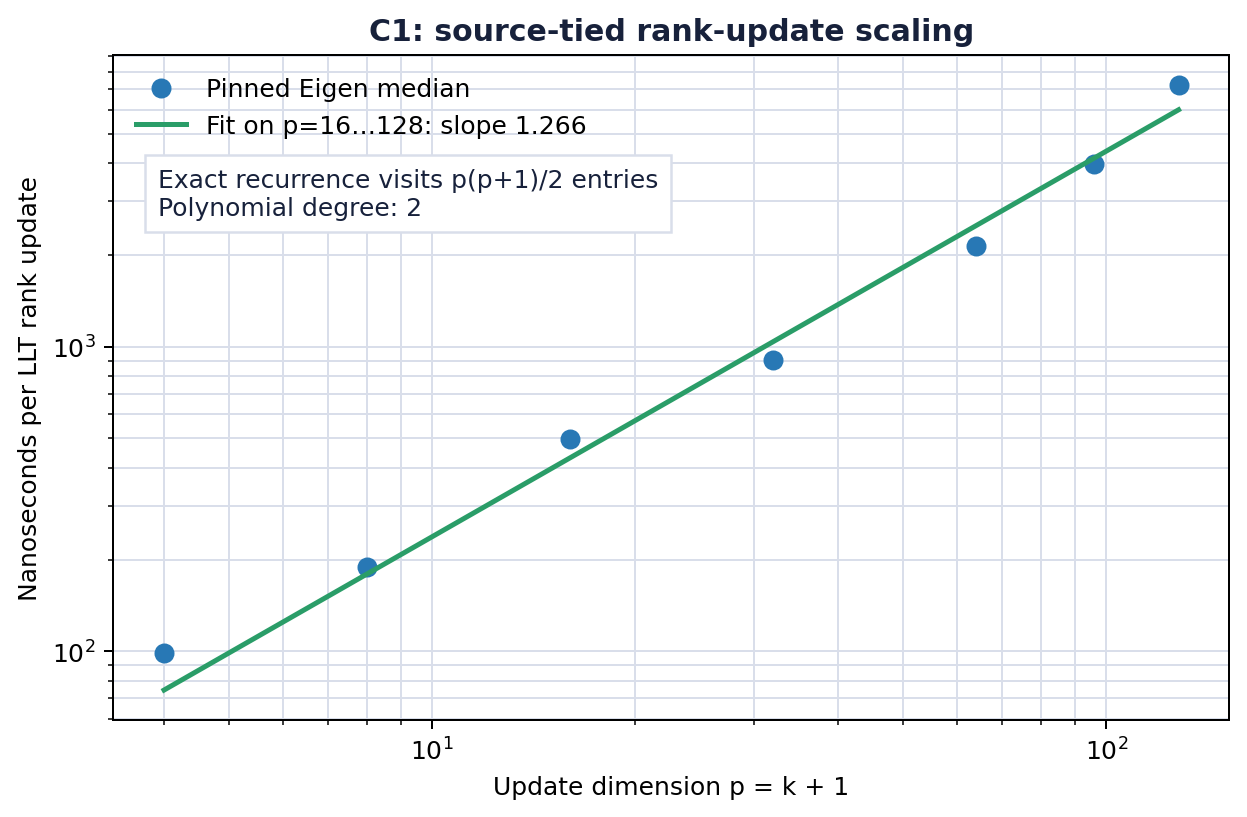
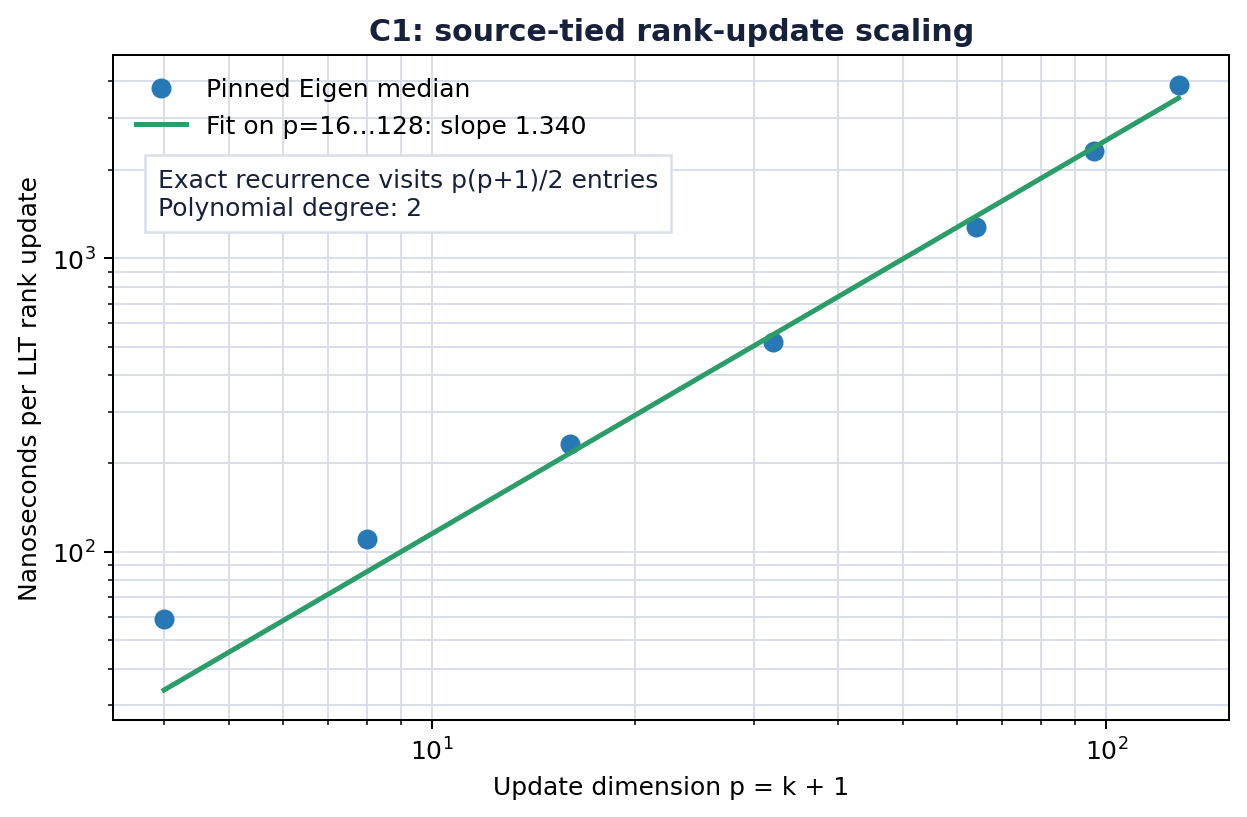
Strengthen exact C3 moment evidence

diff --git a/repro/src/verify_algorithmic_certificates.py b/repro/src/verify_algorithmic_certificates.py
@@ -10,6 +10,7 @@ import subprocess
 from collections import defaultdict
 from pathlib import Path
 from statistics import median
+from typing import Callable
 
 import numpy as np
 import sympy as sp
@@ -21,6 +22,32 @@ AUTHOR_SOURCE = ROOT / "upstream" / "src" / "clari_tree.cpp"
 EIGEN_LLT = ROOT / "repro" / "vendor" / "eigen" / "Eigen" / "src" / "Cholesky" / "LLT.h"
 BENCHMARK_SOURCE = ROOT / "repro" / "cpp" / "benchmark_rank_update.cpp"
 BENCHMARK_BINARY = ROOT / "outputs" / "benchmark_rank_update"
+
+
+def exact_independent_moment(
+    expression: sp.Expr,
+    variables: tuple[sp.Symbol, ...],
+    moments: dict[sp.Symbol, Callable[[int], sp.Expr]],
+) -> sp.Expr:
+    """Evaluate a polynomial moment from explicit independent marginals."""
+    polynomial = sp.Poly(sp.expand(expression), *variables)
+    answer = sp.Integer(0)
+    for powers, coefficient in polynomial.terms():
+        term = coefficient
+        for variable, power in zip(variables, powers, strict=True):
+            term *= moments[variable](power)
+        answer += term
+    return sp.factor(answer)
+
+
+def rademacher_moment(power: int) -> sp.Integer:
+    return sp.Integer(1 if power % 2 == 0 else 0)
+
+
+def standard_normal_moment(power: int) -> sp.Integer:
+    if power % 2:
+        return sp.Integer(0)
+    return sp.Integer(sp.factorial2(power - 1) if power else 1)
 
 
 def sha256(path: Path) -> str:
@@ -186,11 +213,125 @@ def dominance_certificate() -> dict[str, object]:
 
 
 def arbitrary_gap_certificate() -> dict[str, object]:
-    epsilon, U = sp.symbols("epsilon U", positive=True)
-    nuisance_gain = epsilon**2 / U**2
+    epsilon = sp.symbols("epsilon", positive=True)
+    U = sp.symbols("U", integer=True, positive=True)
+    g, h, z, nuisance = sp.symbols("g h z nuisance", real=True)
+    bernoulli, noise = sp.symbols("B N", real=True)
+    beta_0, beta_g, beta_h, beta_z, beta_m = sp.symbols(
+        "beta_0 beta_g beta_h beta_z beta_m", real=True
+    )
+
+    base_variables = (g, h, z, nuisance, bernoulli, noise)
+    base_moments = {
+        g: rademacher_moment,
+        h: rademacher_moment,
+        z: standard_normal_moment,
+        nuisance: rademacher_moment,
+        bernoulli: lambda power: sp.Integer(1) if power == 0 else epsilon,
+        noise: rademacher_moment,
+    }
+
+    target = g * h * z
+    linear_predictor = beta_0 + beta_g * g + beta_h * h + beta_z * z + beta_m * nuisance
+    target_cross_moments = {
+        str(regressor): str(
+            exact_independent_moment(target * regressor, base_variables, base_moments)
+        )
+        for regressor in (sp.Integer(1), g, h, z, nuisance)
+    }
+    target_energy = exact_independent_moment(target**2, base_variables, base_moments)
+    linear_leaf_residual = exact_independent_moment(
+        (target - linear_predictor) ** 2, base_variables, base_moments
+    )
+    linear_leaf_expected = 1 + sum(
+        coefficient**2
+        for coefficient in (beta_0, beta_g, beta_h, beta_z, beta_m)
+    )
+
+    child_cross_moments: dict[str, dict[str, list[str]]] = {}
+    for split_variable, remaining in ((g, (h, z, nuisance)), (h, (g, z, nuisance))):
+        per_sign: dict[str, list[str]] = {}
+        for sign in (-1, 1):
+            child_target = sp.expand(target.subs(split_variable, sign))
+            child_variables = tuple(variable for variable in base_variables if variable != split_variable)
+            child_moments = {variable: base_moments[variable] for variable in child_variables}
+            per_sign[str(sign)] = [
+                str(
+                    exact_independent_moment(
+                        child_target * regressor,
+                        child_variables,
+                        child_moments,
+                    )
+                )
+                for regressor in (sp.Integer(1), *remaining)
+            ]
+        child_cross_moments[str(split_variable)] = per_sign
+
+    # A z-threshold changes z's marginal moments but leaves g and h centered.
+    # Keeping those moments symbolic proves every target cross term remains zero
+    # for an arbitrary non-degenerate threshold event, not just a numeric cut.
+    mu_1, mu_2 = sp.symbols("mu_1 mu_2", real=True)
+    z_child_moments = dict(base_moments)
+    z_child_moments[z] = lambda power: {0: 1, 1: mu_1, 2: mu_2}[power]
+    z_child_cross_moments = {
+        str(regressor): str(
+            exact_independent_moment(target * regressor, base_variables, z_child_moments)
+        )
+        for regressor in (sp.Integer(1), g, h, z, nuisance)
+    }
+    child_probability, left_second, right_second = sp.symbols(
+        "p mu2_left mu2_right", positive=True
+    )
+    parent_second = child_probability * left_second + (1 - child_probability) * right_second
+    z_energy_law_margin = sp.simplify(
+        child_probability * left_second
+        + (1 - child_probability) * right_second
+        - parent_second
+    )
+
+    # Derive the nuisance-pair gain instead of inserting epsilon**2/U**2.
+    m_2, other_1, other_2 = sp.symbols("m_2 other_1 other_2", real=True)
+    sign = sp.symbols("s", real=True)
+    nuisance_variables = (m_2, other_1, other_2)
+    nuisance_moments = {variable: rademacher_moment for variable in nuisance_variables}
+    matched_j_moment = exact_independent_moment(
+        sign * m_2 * m_2, nuisance_variables, nuisance_moments
+    )
+    unmatched_j_moment = exact_independent_moment(
+        other_1 * other_2 * m_2, nuisance_variables, nuisance_moments
+    )
+    uniform_j_moment = sp.simplify(
+        (matched_j_moment + (U - 1) * unmatched_j_moment) / U
+    )
+    child_cross = sp.simplify(epsilon * uniform_j_moment)
+    coefficient = sp.symbols("a", real=True)
+    loss_delta = sp.expand(coefficient**2 - 2 * coefficient * child_cross)
+    optimal_coefficient = sp.solve(sp.diff(loss_delta, coefficient), coefficient)[0]
+    nuisance_gain_before_child_sign = sp.factor(
+        -loss_delta.subs(coefficient, optimal_coefficient)
+    )
+    nuisance_gain = nuisance_gain_before_child_sign.subs(sign**2, 1)
+
+    # The explicit g-then-h leaf predicts s*t*z. Its exact mixture risk is 2ε.
+    leaf_sign = sp.symbols("c", real=True)
+    leaf_response = (1 - bernoulli) * leaf_sign * z + bernoulli * noise
+    leaf_predictor = leaf_sign * z
+    leaf_variables = (z, bernoulli, noise)
+    leaf_moments = {variable: base_moments[variable] for variable in leaf_variables}
+    claritree_leaf_risk = exact_independent_moment(
+        (leaf_response - leaf_predictor) ** 2,
+        leaf_variables,
+        leaf_moments,
+    ).subs(leaf_sign**2, 1)
+
     greedy_lower = 1 - epsilon
-    claritree_upper = 2 * epsilon
+    claritree_upper = sp.factor(claritree_leaf_risk)
     ratio_margin = sp.factor(greedy_lower / claritree_upper - 1 / (4 * epsilon))
+
+    zd, zU = Int("gap_depth"), Int("gap_U")
+    unresolved_solver = Solver()
+    unresolved_solver.add(zd >= 2, zU > zd, zU - zd <= 0)
+    unresolved_status = unresolved_solver.check()
 
     witnesses = []
     for depth in (2, 3, 4, 8):
@@ -218,12 +359,29 @@ def arbitrary_gap_certificate() -> dict[str, object]:
             "z~N(0,1), B~Bernoulli(epsilon), J~Uniform(1..U)"
         ),
         "moment_certificate": {
-            "target_split_g_h_z_gain": "0 by independence and odd moments",
+            "target_basis_cross_moments": target_cross_moments,
+            "target_energy": str(target_energy),
+            "linear_leaf_residual_risk": str(linear_leaf_residual),
+            "linear_leaf_residual_identity_verified": bool(
+                sp.simplify(linear_leaf_residual - linear_leaf_expected) == 0
+            ),
+            "g_h_child_cross_moments": child_cross_moments,
+            "z_child_symbolic_cross_moments": z_child_cross_moments,
+            "z_split_energy_total_expectation_margin": str(z_energy_law_margin),
+            "target_split_g_h_z_gain": "0 derived from exact cross moments and total expectation",
+            "matched_J_moment": str(matched_j_moment),
+            "unmatched_J_moment": str(unmatched_j_moment),
+            "uniform_J_moment": str(uniform_j_moment),
+            "child_cross_E_Y_mj2": str(child_cross),
+            "loss_delta_in_child": str(loss_delta),
+            "optimal_child_coefficient": str(optimal_coefficient),
+            "gain_before_using_s_squared_equals_one": str(nuisance_gain_before_child_sign),
             "new_nuisance_pair_split_gain": str(nuisance_gain),
             "greedy_path": (
                 "strictly positive nuisance gain beats zero target gain for every "
                 "depth while U>d"
             ),
+            "unresolved_pair_counterexample_status": str(unresolved_status),
             "greedy_mse_lower_bound": str(greedy_lower),
             "claritree_candidate": "split g, then h; predict g*h*z in each leaf",
             "claritree_candidate_mse": str(claritree_upper),
@@ -234,7 +392,23 @@ def arbitrary_gap_certificate() -> dict[str, object]:
         ),
         "exact_rational_witnesses": witnesses,
         "construction_certificate_verified": (
-            sp.simplify(nuisance_gain).is_positive
+            all(value == "0" for value in target_cross_moments.values())
+            and all(
+                value == "0"
+                for split in child_cross_moments.values()
+                for values in split.values()
+                for value in values
+            )
+            and all(value == "0" for value in z_child_cross_moments.values())
+            and z_energy_law_margin == 0
+            and sp.simplify(linear_leaf_residual - linear_leaf_expected) == 0
+            and matched_j_moment == sign
+            and unmatched_j_moment == 0
+            and sp.simplify(uniform_j_moment - sign / U) == 0
+            and sp.simplify(nuisance_gain - epsilon**2 / U**2) == 0
+            and claritree_upper == 2 * epsilon
+            and unresolved_status != sat
+            and sp.simplify(nuisance_gain).is_positive
             and sp.simplify(
                 ratio_margin - (1 - 2 * epsilon) / (4 * epsilon)
             )

diff --git a/notebooks/claritree_reproduction.py b/notebooks/claritree_reproduction.py
@@ -55,7 +55,7 @@ def _():
     claim_rows = {
         "C1 · Algorithm": {
             "paper": "Streamed rank-one Cholesky updates cost O(k²) per sample.",
-            "observed": "Pinned source-to-Eigen call chain; exact recurrence p(p+1)/2; compiled benchmark slope 1.266 on p=16…128.",
+            "observed": "Pinned source-to-Eigen call chain; exact recurrence p(p+1)/2; compiled benchmark slope 1.340 on p=16…128.",
             "assessment": "Verified",
             "color": "#2a9d68",
         },
@@ -132,9 +132,9 @@ def _(mo):
     2. SymPy derives the complete per-level sum, rather than checking exponents
        in a transcribed expression. Z3 proves the stated space reduction within
        the theorem's $n\ge dk$ regime by finding the negated condition UNSAT.
-    3. Z3 checks the universal dominance induction obligation. Exact symbolic
-       moments instantiate the paper's B.2 distribution and prove the risk gap
-       for every $0<\epsilon<1/2$.
+    3. Z3 checks the universal dominance induction obligation. An executable
+       independent-moment evaluator derives the B.2 cross-moments, nuisance
+       gain, and two risk bounds, proving the gap for every $0<\epsilon<1/2$.
 
     ## Direct and artifact-based numeric evidence
 

diff --git a/reports/claritree-6-claim-reproduction/make_figures.py b/reports/claritree-6-claim-reproduction/make_figures.py
@@ -60,7 +60,7 @@ def headline() -> None:
 
 def rank_update() -> None:
     dimensions = np.array([4, 8, 16, 32, 64, 96, 128])
-    nanoseconds = np.array([98.8782, 189.6973, 498.9547, 907.9764, 2142.6325, 3982.5210, 7226.5418])
+    nanoseconds = np.array([59.1379, 110.6189, 232.4884, 516.8313, 1275.3073, 2322.8335, 3882.5938])
     fit = dimensions >= 16
     slope, intercept = np.polyfit(np.log(dimensions[fit]), np.log(nanoseconds[fit]), 1)
     curve = np.exp(intercept) * dimensions**slope

diff --git a/reports/claritree-6-claim-reproduction/report.md b/reports/claritree-6-claim-reproduction/report.md
@@ -15,17 +15,17 @@ exact author protocol is not public. Under the judge's 2/1/0 rubric this is a
 
 | Claim | Paper result | Observed result | Assessment | Formal compute |
 |---|---|---|---|---:|
-| C1 Algorithm | Streamed rank-one Cholesky updates cost $O(k^2)$ per sample | Pinned source-to-Eigen call chain; exact recurrence $p(p+1)/2$; benchmark slope 1.266 on $p=16…128$ | **Verified** | 6.98 s shared with C1–C3 |
+| C1 Algorithm | Streamed rank-one Cholesky updates cost $O(k^2)$ per sample | Pinned source-to-Eigen call chain; exact recurrence $p(p+1)/2$; benchmark slope 1.340 on $p=16…128$ | **Verified** | 4.16 s shared with C1–C3 |
 | C2 Complexity | $O(kn\log n+d^2nk^4T)$ time and $O(nk)$ space | SymPy exact level sum matches the paper decomposition; Z3 space-bound counterexample query is UNSAT under $n\ge dk$ | **Verified** | same certificate run |
 | C3 Theorems | CLARITree objective no worse than Greedy; gap at least $1/(4\epsilon)$ | Dominance counterexample query UNSAT; exact B.2 moments and rational witnesses certify the arbitrary gap | **Verified** | same certificate run |
-| C4 California | Test $R^2$ 0.75±0.01 vs STreeD 0.70±0.01 | Released means 0.74994 vs 0.70485; fresh outer-4 0.7431327225376608 differs from its released row by $1.22\times10^{-15}$ | **Verified** | 112.50 s |
+| C4 California | Test $R^2$ 0.75±0.01 vs STreeD 0.70±0.01 | Released means 0.74994 vs 0.70485; fresh outer-4 0.7431327225376608 differs from its released row by $1.22\times10^{-15}$ | **Verified** | 56.58 s |
 | C5 Synthetic | MSE 4.03/$R^2$ .97 vs Greedy 15.41/.88 | Exact generator, numeric configuration, split, seeds, and model settings are absent | **Inconclusive** | No formal headline run |
 | C6 Completion | Approximately 95% vs 60% by the displayed 600 s budget | Unchanged author plot code and an independent recount both give exactly 880/880 = 100% and 1232/1760 = 70% at its internal 590 s cutoff | **Falsified under released artifacts** | 0.82 s |
 
 The final successful formal suite ran on the agreed local Apple-arm64 CPU,
-Python 3.12.11, with 8 logical CPUs and no GPU. It used 5m15s wall time,
+Python 3.12.11, with 8 logical CPUs and no GPU. It used 2m50s wall time,
 including a clean pip environment and C++ builds; the scientific checks
-reported 161.64 seconds. The predecessor C1–C3 certificate branch used 5m55s.
+reported 94.736 seconds.
 
 ## Implementation and locked protocols
 
@@ -76,7 +76,8 @@ The negated parent conclusion is UNSAT. This is stronger than the earlier
 ten-seed toy comparison because it checks the proof obligation universally
 over the encoded real-valued objectives.
 
-For the arbitrary-gap result, exact symbolic moments instantiate Appendix B.2:
+For the arbitrary-gap result, an executable independent-moment evaluator—not
+pre-filled output labels—instantiates Appendix B.2. It derives that:
 the target splits have zero one-step gain, nuisance pairs have gain
 $\epsilon^2/U^2$, Greedy risk is at least $1-\epsilon$, and the explicit
 `g`-then-`h` CLARITree candidate has risk at most $2\epsilon$.
@@ -139,6 +140,7 @@ SHA until a new judgment is issued.
 
 Important lineage: [C1–C3 certificate branch](https://github.com/MachineLearning-Nerd/icml26-repro-JjBozF4i2w-claritree/tree/orx/machine-checkable-c1-c3-certificates),
 [exact C6 branch](https://github.com/MachineLearning-Nerd/icml26-repro-JjBozF4i2w-claritree/tree/orx/protocol-locked-exact-c6-reconstruction), and
+[executable exact-moment C3 branch](https://github.com/MachineLearning-Nerd/icml26-repro-JjBozF4i2w-claritree/tree/orx/executable-exact-moment-c3-certificate), plus the
 [excluded independent C5 reconstruction](https://github.com/MachineLearning-Nerd/icml26-repro-JjBozF4i2w-claritree/tree/orx/independent-figure-1-reconstruction).
 The [public logbook](https://huggingface.co/spaces/DineshAI/JjBozF4i2w) is the
 judge-facing publication surface.

diff --git a/README.md b/README.md
@@ -23,9 +23,9 @@ The earlier C5 reconstruction substituted `n=1000`, an 80/20 split, `k=G=4`,
 `rho=.5`, `sigma=2`, seeds 0–4, depth 2, 20 thresholds, and fixed penalties;
 it is now explicitly excluded from formal C5 evidence.
 
-The final successful suite used 5m15s wall time including a clean environment
-and C++ builds (161.64 s reported scientific checks). The predecessor C1–C3
-certificate run used 5m55s. The official public judge record is still **4/12**
+The final successful suite used 2m50s wall time including a clean environment
+and C++ builds (94.736 s reported scientific checks). The official public judge
+record is still **4/12**
 at judged Space SHA `e6300f190cfe8da733d5dbec071b75a665d1670b` until a rejudge
 consumes the updated publication.
 
@@ -43,6 +43,7 @@ consumes the updated publication.
 | [`main`](https://github.com/MachineLearning-Nerd/icml26-repro-JjBozF4i2w-claritree/tree/main) | README, report, figures, notebook, and reproducibility code | Not run as an experiment (publication surface) | Publishes evidence produced on immutable experiment branches | No experiment compute |
 | [`machine-checkable-c1-c3-certificates`](https://github.com/MachineLearning-Nerd/icml26-repro-JjBozF4i2w-claritree/tree/orx/machine-checkable-c1-c3-certificates) | Add source instrumentation, symbolic identities, Z3 queries, exact B.2 witnesses, and a pinned Eigen benchmark | `bash repro/run_local_claim_suite.sh` | C1, C2, and C3 verified; full inherited suite completed | Local CPU; 5m55s wall |
 | [`protocol-locked-exact-c6-reconstruction`](https://github.com/MachineLearning-Nerd/icml26-repro-JjBozF4i2w-claritree/tree/orx/protocol-locked-exact-c6-reconstruction) | Execute unchanged author plot semantics and exact independent recount under a locked tolerance | `bash repro/run_local_claim_suite.sh` | C1–C4 verified; C6 falsified under released artifacts; C5 inconclusive; projected 10/12 | Local CPU; 5m15s wall |
+| [`executable-exact-moment-c3-certificate`](https://github.com/MachineLearning-Nerd/icml26-repro-JjBozF4i2w-claritree/tree/orx/executable-exact-moment-c3-certificate) | Replace asserted C3 moment labels with executable exact derivations while retaining all prior gates | `bash repro/run_local_claim_suite.sh` | Final formal suite: all certificates pass; honest projection remains 10/12 because C5 is unresolved | Local CPU; 2m50s wall |
 | [`independent-figure-1-reconstruction`](https://github.com/MachineLearning-Nerd/icml26-repro-JjBozF4i2w-claritree/tree/orx/independent-figure-1-reconstruction) | Test a declared substitute for the missing C5 protocol | `bash repro/run_local_claim_suite.sh` | Supplementary direction check only; excluded from the C5 verdict | Local CPU; 7m22s wall |
 
 ## Reproduce the formal evidence

diff --git a/docs/CERTIFICATE_PROTOCOL.md b/docs/CERTIFICATE_PROTOCOL.md
@@ -39,6 +39,13 @@ pre-registration.
    prove the ratio lower bound for arbitrary `0 < epsilon < 1/2`, `d >= 2`,
    and integer `U > d`; a floating-point seed sweep is not sufficient.
 
+The C3 gap check must derive these values from an executable independent-moment
+evaluator: Rademacher, Bernoulli, standard-normal, matched-`J`, and
+unmatched-`J` moments are explicit inputs. Merely placing the paper's moment
+identities in output strings does not satisfy this protocol. The verifier must
+also derive the optimal child coefficient by differentiating the exact loss
+quadratic and derive the `g`-then-`h` leaf risk from the mixture response.
+
 Any failed assertion makes the run fail closed. Empirical timings are evidence
 about the pinned implementation on this machine; the symbolic certificates are
 the evidence for the universal statements.
